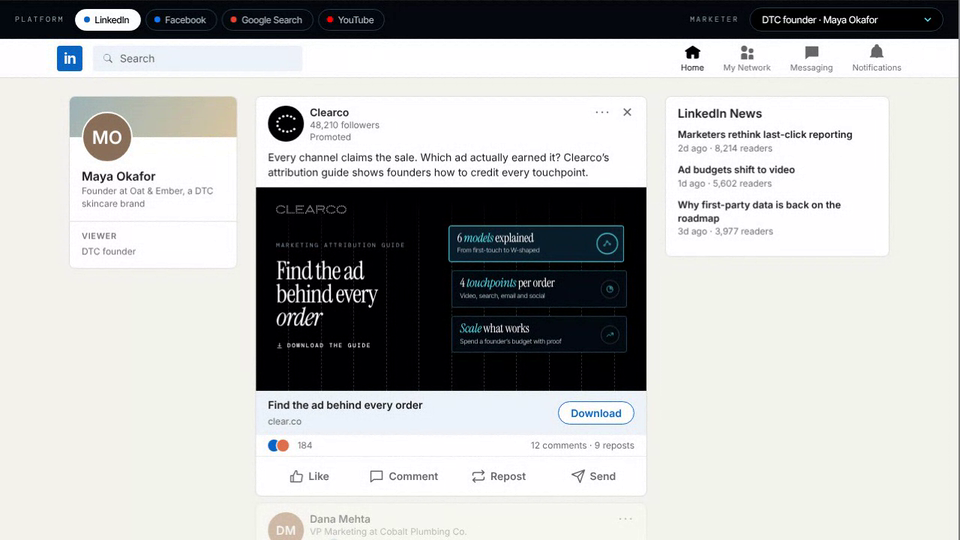
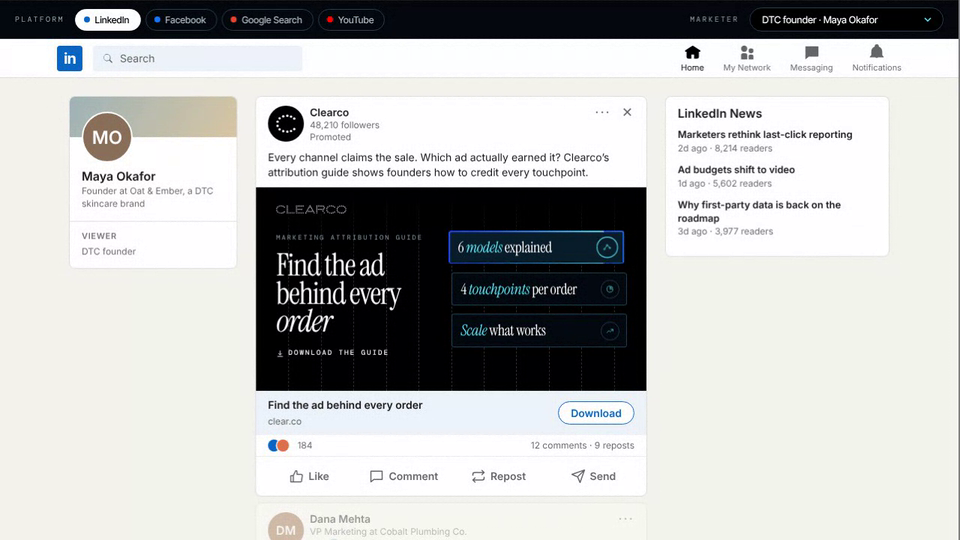
Clearco Paid Ad Pipeline: moving blue/turquoise stroke on lit cards, bigger ad headline and text, no card subheads
Claude-Session: https://claude.ai/code/session_01AHeBdxfESGkB61WPERPkmT

Changed region(s): [[0.4688, 0.4148, 0.6562, 0.6519], [0.2812, 0.4148, 0.4375, 0.6815]]

diff --git a/clearco-paid-ad-pipeline/index.html b/clearco-paid-ad-pipeline/index.html
@@ -51,25 +51,29 @@ nav.back span{color:#6e6e6e}nav.back b{font-weight:500;color:#fff;overflow:hidde
 .cr .dl{position:absolute;inset:0;pointer-events:none;-webkit-mask-image:linear-gradient(transparent,#000 40%);mask-image:linear-gradient(transparent,#000 40%)}
 .cr .dl i{position:absolute;top:0;bottom:0;border-left:1px dashed rgba(255,255,255,.2)}
 .cr .lg{position:absolute;left:5.2cqw;top:4.6cqw;width:18cqw;aspect-ratio:978.8/116.8;height:auto;fill:#fff}
-.cr .l{position:absolute;left:5.2cqw;top:0;bottom:0;width:46cqw;display:flex;flex-direction:column;justify-content:center;padding-top:3cqw}
-.cr .chip{font:400 1.5cqw/1.5 var(--mono);letter-spacing:.22em;text-transform:uppercase;color:#8fa0ad;white-space:nowrap}
+.cr .l{position:absolute;left:5.2cqw;top:0;bottom:0;width:47cqw;display:flex;flex-direction:column;justify-content:center;padding-top:3cqw}
+.cr .chip{font:400 1.7cqw/1.5 var(--mono);letter-spacing:.22em;text-transform:uppercase;color:#8fa0ad;white-space:nowrap}
 .cr .chip em{font-style:normal;color:var(--cyan)}
-.cr h4{font:400 6.5cqw/.92 var(--serif);letter-spacing:-.035em;margin:2.4cqw 0 3.4cqw;white-space:nowrap}
-.cr .go{align-self:flex-start;display:inline-flex;align-items:center;gap:1.1cqw;color:#fff;font:500 1.5cqw/1 var(--mono);letter-spacing:.2em;text-transform:uppercase;white-space:nowrap}
-.cr .go svg{width:1.7cqw;height:1.7cqw}
+.cr h4{font:400 8cqw/.9 var(--serif);letter-spacing:-.035em;margin:2.4cqw 0 3.4cqw;white-space:nowrap}
+.cr .go{align-self:flex-start;display:inline-flex;align-items:center;gap:1.1cqw;color:#fff;font:500 1.8cqw/1 var(--mono);letter-spacing:.2em;text-transform:uppercase;white-space:nowrap}
+.cr .go svg{width:2cqw;height:2cqw}
 .cr .stage{position:absolute;right:0;top:0;width:50cqw;height:100%;container-type:inline-size}
 .cr .stage>*{pointer-events:none}
 .cr .stage{display:flex;flex-direction:column;justify-content:center;gap:2.2cqw;padding:0 5cqw 0 0}
-.cr .bl{position:relative;display:flex;align-items:center;background:rgba(4,10,16,.94);border:1px solid #24465c;border-radius:3px;padding:3.4cqw 17cqw 3.4cqw 4.6cqw;color:#fff}
+.cr .bl{position:relative;display:flex;align-items:center;background:rgba(4,10,16,.94);border:1px solid #24465c;border-radius:3px;padding:4.6cqw 17cqw 4.6cqw 5cqw;color:#fff}
 .cr .bl:nth-child(2){--i:1}.cr .bl:nth-child(3){--i:2}
+.cr .bl::before{content:"";position:absolute;inset:-1px;border-radius:inherit;padding:1.5px;background:linear-gradient(90deg,var(--blue),var(--cyan),var(--blue2),var(--blue),var(--cyan)) 0 0/300% 100%;-webkit-mask:linear-gradient(#000 0 0) content-box,linear-gradient(#000 0 0);-webkit-mask-composite:xor;mask:linear-gradient(#000 0 0) content-box exclude,linear-gradient(#000 0 0);opacity:0;pointer-events:none}
 .cr.play .bl{animation:cardin .8s cubic-bezier(.2,.8,.2,1) calc(var(--i,0) * .2s) backwards,hl 6s ease-in-out calc(1.4s + var(--i,0) * 2s) infinite}
+.cr.play .bl::before{animation:hs 6s ease-in-out calc(1.4s + var(--i,0) * 2s) infinite,flow 1.8s linear infinite}
 .cr.play .bl .ic{animation:icp 6s ease-in-out calc(1.4s + var(--i,0) * 2s) infinite}
 @keyframes cardin{from{opacity:0;transform:translateX(7cqw)}}
-@keyframes hl{0%,34%,100%{border-color:#24465c;background:rgba(4,10,16,.94);transform:none}8%,26%{border-color:var(--cyan);background:rgba(10,30,44,.96);transform:translateX(-1.6cqw)}}
+@keyframes hl{0%,34%,100%{background:rgba(4,10,16,.94);transform:none}8%,26%{background:rgba(10,30,44,.96);transform:translateX(-1.6cqw)}}
+@keyframes hs{0%,34%,100%{opacity:0}8%,26%{opacity:1}}
+@keyframes flow{to{background-position:-300% 0}}
 @keyframes icp{0%,34%,100%{transform:translateY(-50%) scale(1);border-color:#2b3d52}8%,26%{transform:translateY(-50%) scale(1.14);border-color:var(--cyan)}}
 @media(prefers-reduced-motion:reduce){.cr.play .bl,.cr.play .bl .ic{animation:none}}
 .cr .bl .ic{position:absolute;right:4cqw;top:50%;width:10.5cqw;height:10.5cqw;transform:translateY(-50%);padding:2.5cqw;border:1px solid #2b3d52;border-radius:50%;color:var(--cyan)}
-.cr .bl strong{display:block;font:400 7cqw/1 var(--serif);letter-spacing:-.02em}
+.cr .bl strong{display:block;font:400 8.6cqw/1.02 var(--serif);letter-spacing:-.02em}
 .cr .bl strong i{color:var(--cyan)}
 .cr .bl p{white-space:nowrap;font:400 3.7cqw/1.35 var(--sans);color:#aebbc5;margin-top:1.4cqw}
 .cr .bl .sw{display:block}
@@ -399,9 +403,9 @@ tfoot td{font-weight:500;color:#fff;border-top:1px solid #3a4c60}
    <h4><span class="sw" id="crH"></span></h4>
    <span class="go"><svg viewBox="0 0 16 16" fill="none" stroke="currentColor" stroke-width="1.4" aria-hidden="true"><path d="M8 2v9M4.5 7.5 8 11l3.5-3.5M2.5 14h11"/></svg>Download the guide</span></div>
   <div class="stage" aria-hidden="true">
-   <div class="bl" id="bl1"><svg class="ic" viewBox="0 0 24 24" fill="none" stroke="currentColor" stroke-width="1.5" stroke-linecap="round" stroke-linejoin="round" aria-hidden="true"><circle cx="5" cy="17" r="2"/><circle cx="12" cy="7" r="2"/><circle cx="19" cy="14" r="2"/><path d="M6.2 15.3l4.6-6.6M13.8 8.4l4 4.1"/></svg><div><strong class="sw" id="b1h"></strong><p class="sw" id="b1p"></p></div></div>
-   <div class="bl" id="bl2"><svg class="ic" viewBox="0 0 24 24" fill="none" stroke="currentColor" stroke-width="1.5" stroke-linecap="round" stroke-linejoin="round" aria-hidden="true"><path d="M12 3a9 9 0 1 0 9 9h-9z"/><path d="M15 3.5A9 9 0 0 1 20.5 9H15z"/></svg><div><strong class="sw" id="b2h"></strong><p class="sw" id="b2p"></p></div></div>
-   <div class="bl" id="bl3"><svg class="ic" viewBox="0 0 24 24" fill="none" stroke="currentColor" stroke-width="1.5" stroke-linecap="round" stroke-linejoin="round" aria-hidden="true"><path d="M3 17l6-6 4 4 8-8"/><path d="M15 7h6v6"/></svg><div><strong class="sw" id="b3h"></strong><p class="sw" id="b3p"></p></div></div>
+   <div class="bl" id="bl1"><svg class="ic" viewBox="0 0 24 24" fill="none" stroke="currentColor" stroke-width="1.5" stroke-linecap="round" stroke-linejoin="round" aria-hidden="true"><circle cx="5" cy="17" r="2"/><circle cx="12" cy="7" r="2"/><circle cx="19" cy="14" r="2"/><path d="M6.2 15.3l4.6-6.6M13.8 8.4l4 4.1"/></svg><div><strong class="sw" id="b1h"></strong></div></div>
+   <div class="bl" id="bl2"><svg class="ic" viewBox="0 0 24 24" fill="none" stroke="currentColor" stroke-width="1.5" stroke-linecap="round" stroke-linejoin="round" aria-hidden="true"><path d="M12 3a9 9 0 1 0 9 9h-9z"/><path d="M15 3.5A9 9 0 0 1 20.5 9H15z"/></svg><div><strong class="sw" id="b2h"></strong></div></div>
+   <div class="bl" id="bl3"><svg class="ic" viewBox="0 0 24 24" fill="none" stroke="currentColor" stroke-width="1.5" stroke-linecap="round" stroke-linejoin="round" aria-hidden="true"><path d="M3 17l6-6 4 4 8-8"/><path d="M15 7h6v6"/></svg><div><strong class="sw" id="b3h"></strong></div></div>
   </div>
  </a>
 </section>
@@ -537,7 +541,7 @@ function paintAd(){const m=M[Math.max(0,state.m)];
  document.querySelectorAll('[data-t]').forEach(e=>{e.innerHTML=TXT[e.dataset.t](m)});
  document.querySelectorAll('.av,.a,.me').forEach(e=>e.style.setProperty('--hue',m.hue));
  $('crH').innerHTML=`${m.h[0]}<br>${m.h[1]}<br><i>${m.h[2]}</i>`;
- m.b.forEach((b,i)=>{$('b'+(i+1)+'h').innerHTML=b[0];$('b'+(i+1)+'p').textContent=b[1]});
+ m.b.forEach((b,i)=>{$('b'+(i+1)+'h').innerHTML=b[0]});
  const p=P[Math.max(0,state.p)];$('urlq').textContent='/attribution-guide?'+utmQ(p,m);$('uSrc').textContent=p.src;$('uMed').textContent=p.med;$('uCon').textContent=m.k;cr.href=adUrl()}
 const swEls=()=>[...document.querySelectorAll('.sw')];
 function paintAll(instant){if(instant){paintAd();return}
